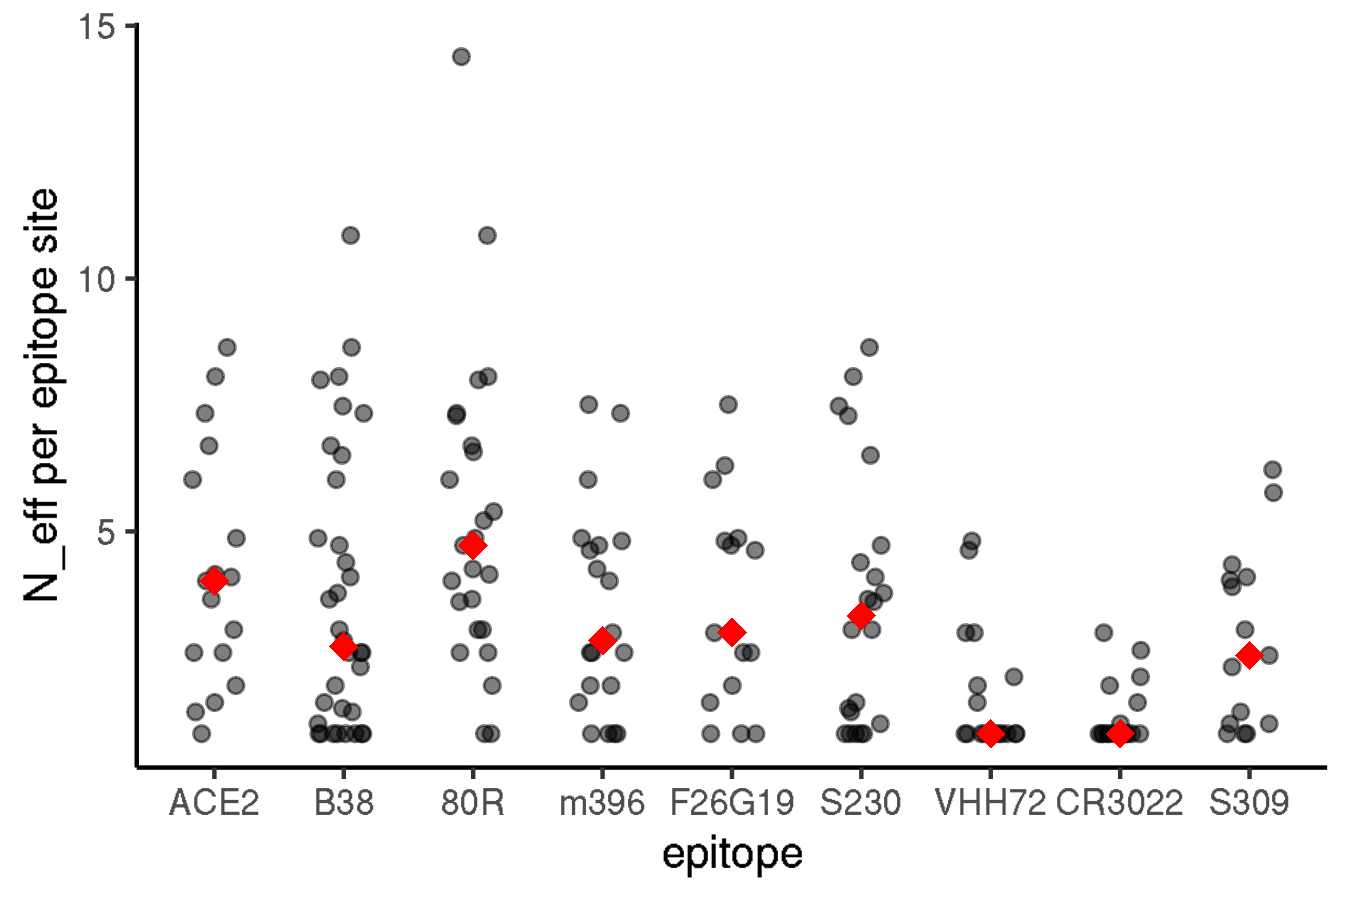
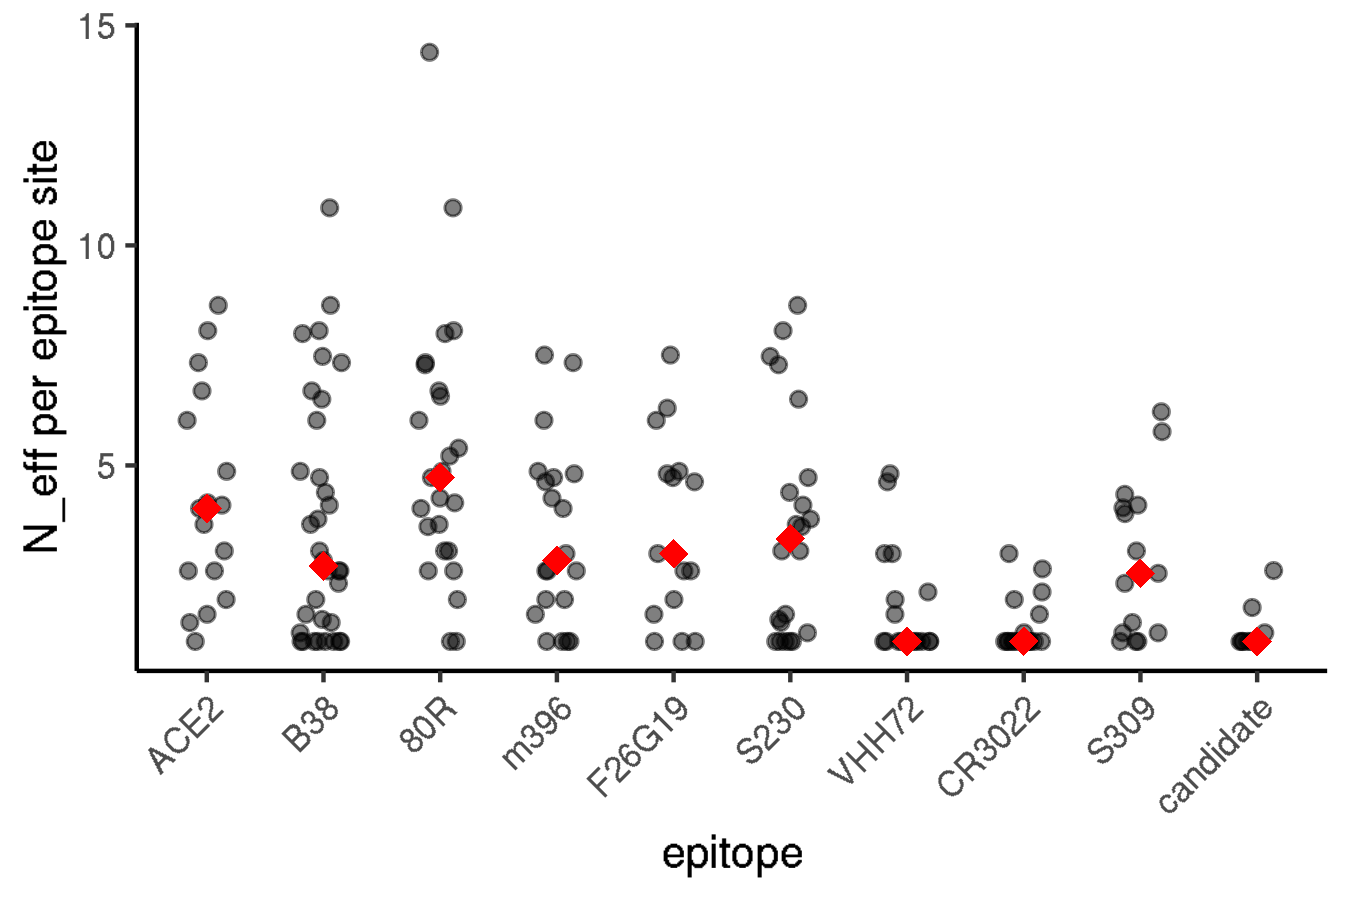
Add new candidate epitope to evol conservation fig

diff --git a/results/summary/antibody_epitopes.md b/results/summary/antibody_epitopes.md
@@ -126,6 +126,11 @@ are tolerated.
 
 <img src="antibody_epitopes_files/figure-gfm/violin_plot_epitope_mut_effects-1.png" style="display: block; margin: auto;" />
 
+Integrate these plots onto a single scatter plot, showing the median
+mutational effect on binding versus expression for residues in each
+antibody epitope
+
+<img src="antibody_epitopes_files/figure-gfm/scatterplot_epitope_mut_effects-1.png" style="display: block; margin: auto;" />
 We can see for the first 5 antibodies, all of which bind epitopes mostly
 or fully within the RBM, that epitope sites exhibit mutational
 constraint with regards to binding (though not as much constraint as on
